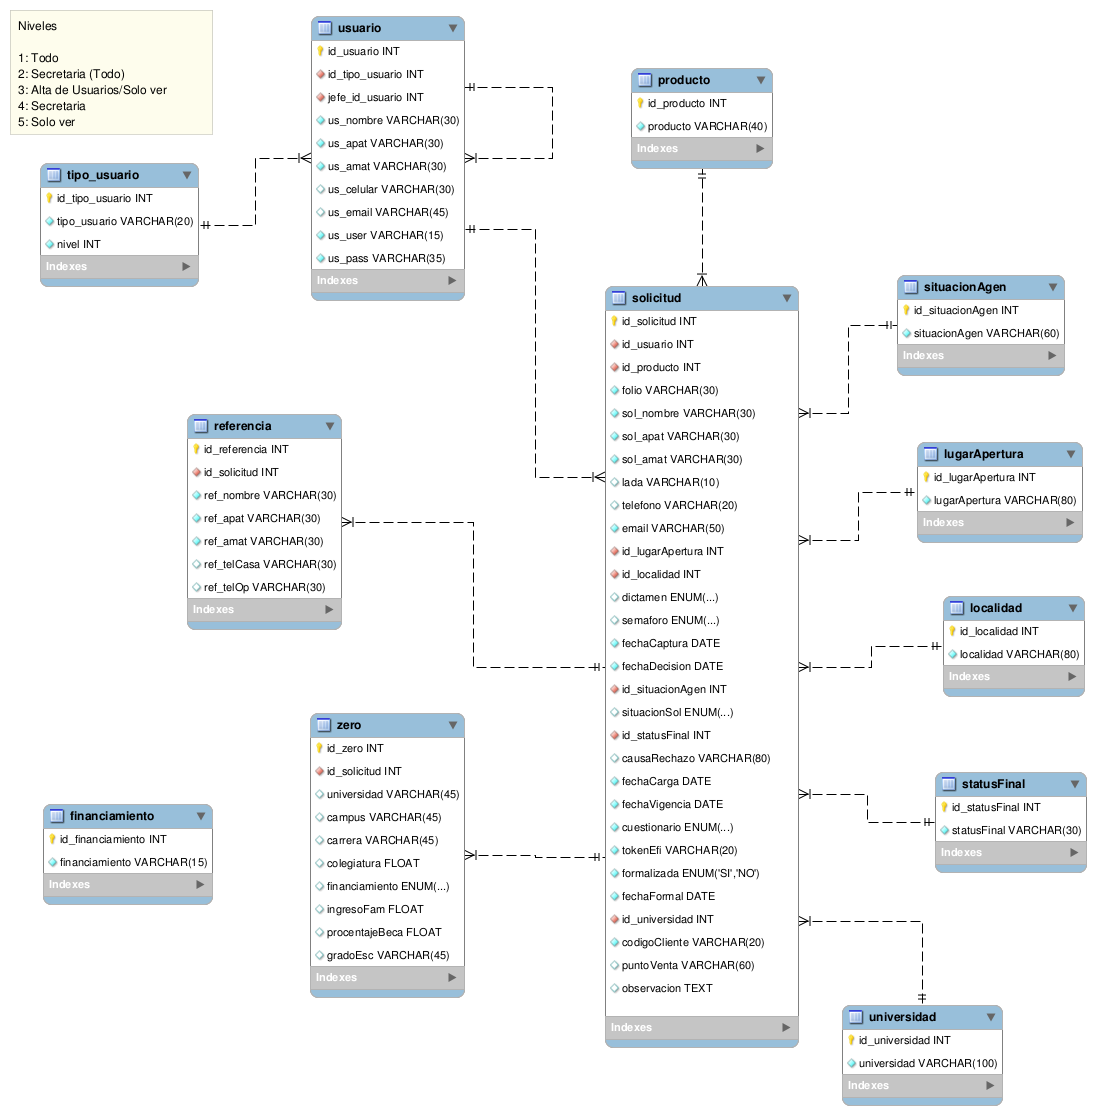
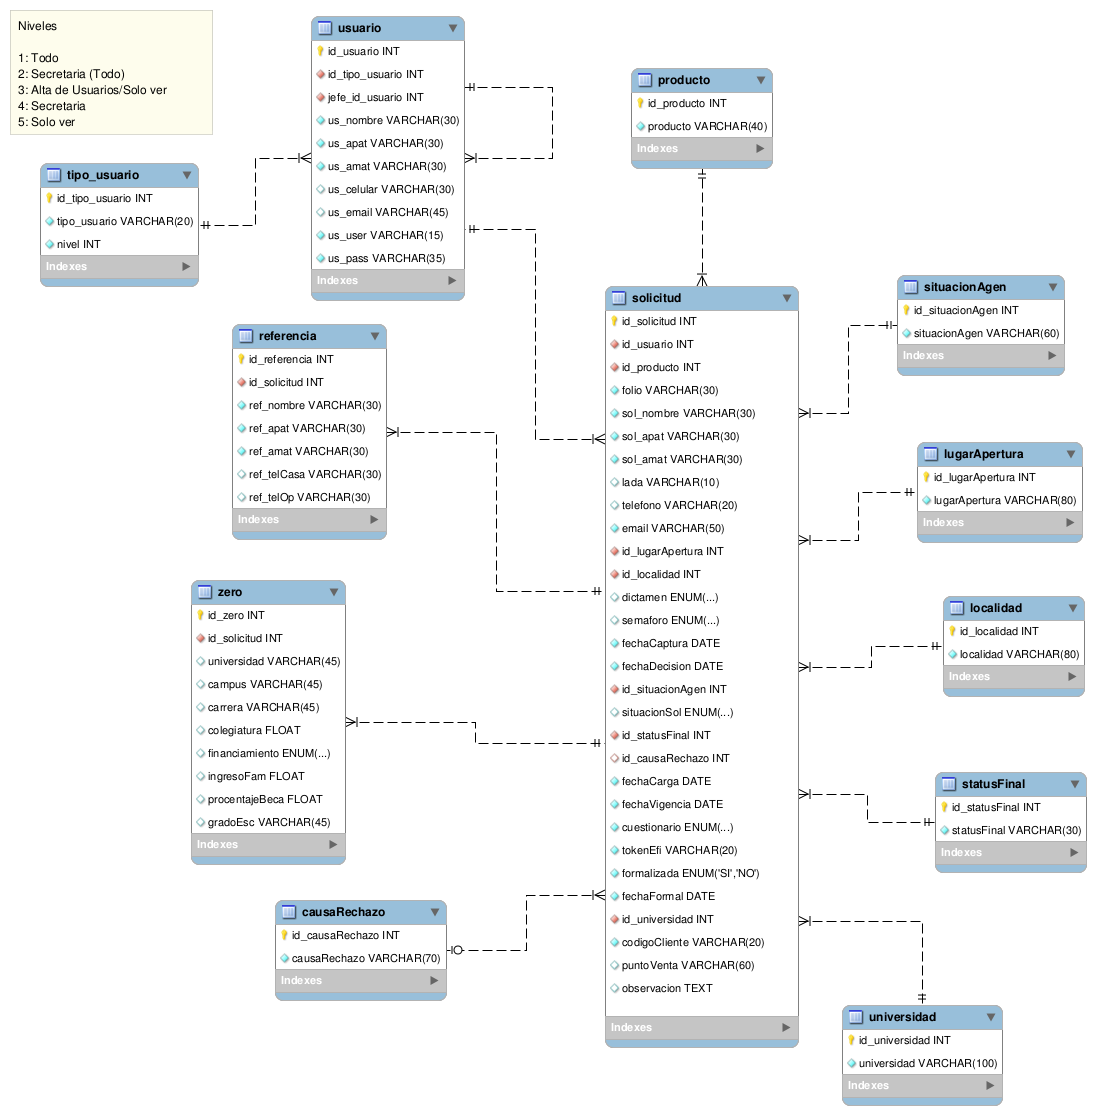
Creando urls para catalogos 	modified:   Rest/CreditCard/app/middlewares/auth.py 	modified:   Rest/CreditCard/catalogo/models.py 	modified:   Rest/CreditCard/catalogo/serializers.py 	modified:   Rest/CreditCard/catalogo/urls.py 	modified:   Rest/CreditCard/catalogo/views.py 	modified:   db/creditcar

Changed region(s): [[0.031, 0.2744, 0.4343, 0.9148], [0.5584, 0.6709, 0.7135, 0.7013]]

diff --git a/Rest/CreditCard/catalogo/views.py b/Rest/CreditCard/catalogo/views.py
@@ -1,34 +1,48 @@
 from rest_framework import viewsets
 from app.response import Response
 
+from .models import Producto, Situacionagen, Lugarapertura, Localidad, Statusfinal, Universidad, Causarechazo
+from .serializers import ProductoSerializer, SituacionagenSerializer, LugaraperturaSerializer, LocalidadSerializer, StatusfinalSerializer, UniversidadSerializer, CausarechazoSerializer
+
 class ProductoViewSet(viewsets.ViewSet):
 
     def list(self, request):
-        return Response()
+        producto = ProductoSerializer( Producto.objects.all(), many=True )
+        return Response(producto.data)
 
 class SituacionAgenViewSet(viewsets.ViewSet):
 
     def list(self, request):
-        return Response()
+        situacionagen = SituacionagenSerializer( Situacionagen.objects.all(), many=True )
+        return Response(situacionagen.data)
 
 class LugarAperturaViewSet(viewsets.ViewSet):
 
     def list(self, request):
-        return Response()
+        lugarap = LugaraperturaSerializer( Lugarapertura.objects.all(), many=True )
+        return Response(lugarap.data)
 
 class LocalidadViewSet(viewsets.ViewSet):
 
     def list(self, request):
-        return Response()
+        localidad = LocalidadSerializer( Localidad.objects.all(), many=True )
+        return Response(localidad.data)
 
 class StatusFinalViewSet(viewsets.ViewSet):
 
     def list(self, request):
-        return Response()
+        statusfin = StatusfinalSerializer( Statusfinal.objects.all(), many=True )
+        return Response(statusfin.data)
 
 class UniversidadViewSet(viewsets.ViewSet):
 
     def list(self, request):
-        return Response()
+        universidad = UniversidadSerializer( Universidad.objects.all(), many=True )
+        return Response(universidad.data)
 
 
+class CausarechazoViewSet(viewsets.ViewSet):
+
+    def list(self, request):
+        causa = CausarechazoSerializer( Causarechazo.objects.all(), many=True )
+        return Response(causa.data)

diff --git a/Rest/CreditCard/catalogo/urls.py b/Rest/CreditCard/catalogo/urls.py
@@ -1,5 +1,5 @@
 from rest_framework import routers
-from .views import ProductoViewSet, SituacionAgenViewSet, LugarAperturaViewSet, LocalidadViewSet, StatusFinalViewSet, UniversidadViewSet 
+from .views import ProductoViewSet, SituacionAgenViewSet, LugarAperturaViewSet, LocalidadViewSet, StatusFinalViewSet, UniversidadViewSet, CausarechazoViewSet
 
 router = routers.SimpleRouter()
 router.register(r'producto', ProductoViewSet, 'producto')
@@ -8,5 +8,6 @@ router.register(r'lugarapertura', LugarAperturaViewSet, 'lugarapertura')
 router.register(r'localidad', LocalidadViewSet, 'localidad')
 router.register(r'statusfinal', StatusFinalViewSet, 'statusfinal')
 router.register(r'universidad', UniversidadViewSet, 'universidad')
+router.register(r'causarechazo', CausarechazoViewSet, 'causarechazo')
 urlpatterns = router.urls
 

diff --git a/Rest/CreditCard/catalogo/serializers.py b/Rest/CreditCard/catalogo/serializers.py
@@ -1,5 +1,5 @@
 from rest_framework import serializers
-from .models import Producto, Situacionagen, Lugarapertura, Localidad, Statusfinal, Universidad
+from .models import Producto, Situacionagen, Lugarapertura, Localidad, Statusfinal, Universidad, Causarechazo
 
 class ProductoSerializer(serializers.Serializer):
     id = serializers.IntegerField(source='id_producto', read_only=True)
@@ -25,4 +25,6 @@ class UniversidadSerializer(serializers.Serializer):
     id = serializers.IntegerField(source='id_universidad', read_only=True)
     universidad = serializers.CharField(max_length=100)
 
-
+class CausarechazoSerializer(serializers.Serializer):
+    id = serializers.IntegerField(source='id_causarechazo', read_only=True)
+    causarechazo = serializers.CharField(max_length=100)

diff --git a/Rest/CreditCard/app/middlewares/auth.py b/Rest/CreditCard/app/middlewares/auth.py
@@ -12,7 +12,6 @@ class Auth(object):
 
     def __call__(self, request):
 
-        # isurlauth = self.isUrlAuth(request.path_info)
         isurlauth = Urls(request.path_info).isSafe
 
         if not isurlauth:
@@ -29,10 +28,7 @@ class Auth(object):
         if not isurlauth:
             if token.refresh:
                 data = response.data
-                if 'data' in data:
-                    data['data']['token'] = token.new
-                else: 
-                    data['data'] = {'token': token.new}
+                data['token'] = token.new
                 return JsonResponse(data, status=response.status_code)
 
         return response

diff --git a/Rest/CreditCard/catalogo/models.py b/Rest/CreditCard/catalogo/models.py
@@ -50,4 +50,10 @@ class Universidad(models.Model):
         managed = False
         db_table = 'universidad'
 
+class Causarechazo(models.Model):
+    id_causarechazo = models.AutoField(db_column='id_causaRechazo', primary_key=True)  # Field name made lowercase.
+    causarechazo = models.CharField(db_column='causaRechazo', max_length=70)  # Field name made lowercase.
 
+    class Meta:
+        managed = False
+        db_table = 'causaRechazo'
